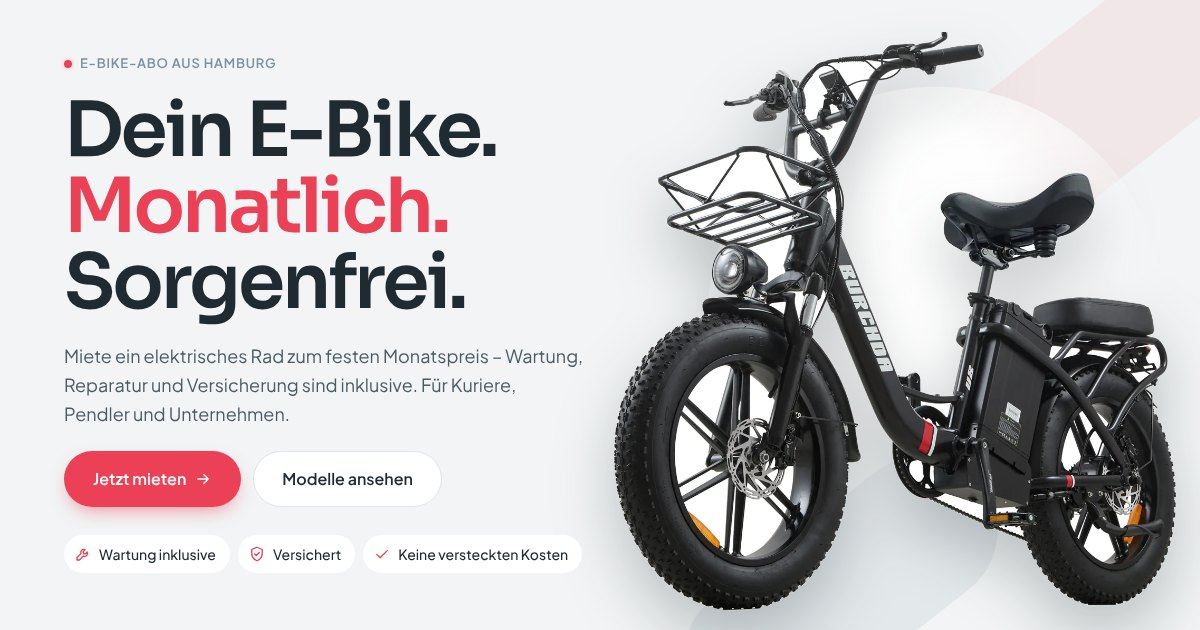
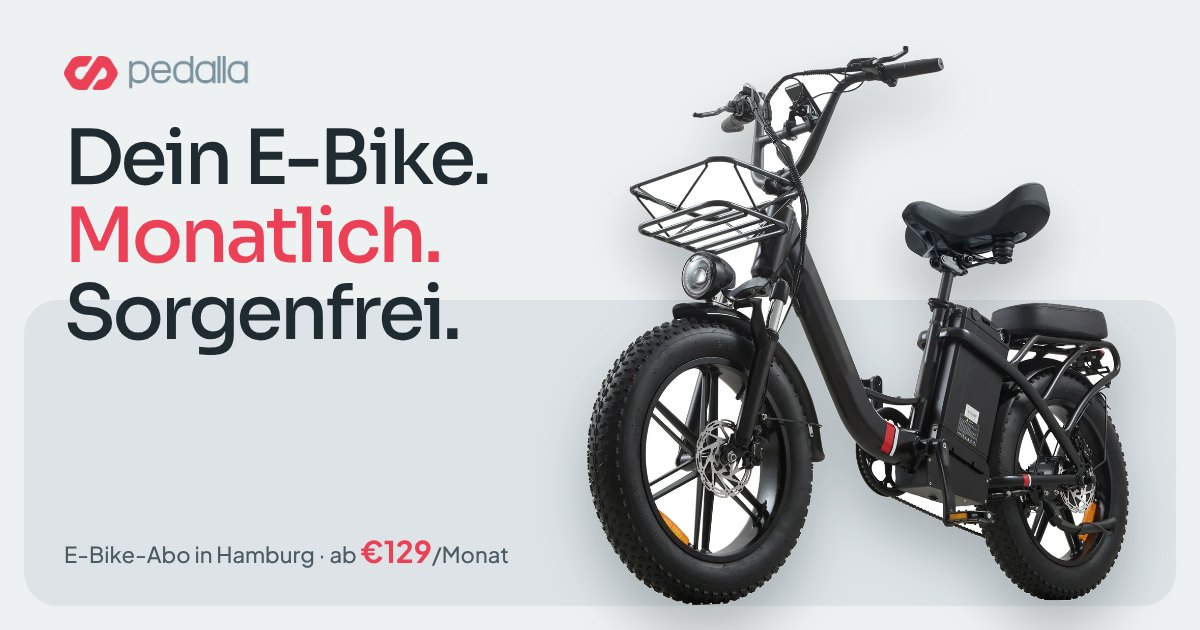
Website: brand-free hero e-bike, new header and hero layout (stage with notch, model switcher)
Claude-Session: https://claude.ai/code/session_01J2WuVimoZDpszxyMXGVvKV

diff --git a/website/src/site.css b/website/src/site.css
@@ -53,73 +53,134 @@ p { margin: 0; }
 .btn[disabled] { opacity: .6; pointer-events: none; }
 .btn .ic { width: 18px; height: 18px; }
 
-/* header */
-.top { position: sticky; top: 0; z-index: 50; background: rgba(255,255,255,.86); backdrop-filter: saturate(1.4) blur(14px); -webkit-backdrop-filter: saturate(1.4) blur(14px); border-bottom: 1px solid transparent; transition: border-color .2s; }
-.top.scrolled { border-bottom-color: var(--line); }
-.top-in { display: flex; align-items: center; gap: 24px; height: 72px; }
-.logo img { height: 28px; width: auto; }
-.nav { display: flex; gap: 4px; margin: 0 auto; }
-.nav a { padding: 8px 14px; border-radius: 999px; text-decoration: none; font-weight: 500; font-size: 15px; color: var(--ink-2); }
-.nav a:hover { background: var(--soft); color: var(--ink); }
-.nav-login { display: none; }
-.top-r { display: flex; align-items: center; gap: 10px; }
-.lang { display: flex; background: var(--soft); border-radius: 999px; padding: 3px; }
-.lang a { font: 600 12px/1 var(--body); padding: 8px 9px; border-radius: 999px; text-decoration: none; color: var(--ink-2); }
-.lang a.on { background: #fff; color: var(--ink); box-shadow: 0 1px 3px rgba(0,0,0,.08); }
-.burger { display: none; width: 42px; height: 42px; border-radius: 50%; border: 0; background: var(--soft); cursor: pointer; align-items: center; justify-content: center; color: var(--ink); }
-@media (max-width: 1080px) {
-  .nav { position: fixed; inset: 72px 0 auto 0; flex-direction: column; background: #fff; padding: 12px 16px 20px; border-bottom: 1px solid var(--line); box-shadow: var(--shadow); transform: translateY(-8px); opacity: 0; pointer-events: none; transition: .2s; margin: 0; }
-  .nav.open { transform: none; opacity: 1; pointer-events: auto; }
-  .nav a { font-size: 17px; padding: 12px 14px; }
-  .nav-login { display: block; }
-  .burger { display: inline-flex; }
-  .hide-m { display: none; }
-  .top-r { margin-left: auto; }
+/* header (floats over the hero frame) */
+.top { position: sticky; top: 0; z-index: 50; transition: background .25s, box-shadow .25s; }
+.top.scrolled { background: rgba(255,255,255,.88); backdrop-filter: saturate(1.4) blur(14px); -webkit-backdrop-filter: saturate(1.4) blur(14px); box-shadow: 0 1px 0 var(--line); }
+.top-in { display: grid; grid-template-columns: 1fr auto 1fr; align-items: center; gap: 16px; height: 84px; padding-left: 36px; padding-right: 36px; }
+.top-l { display: flex; align-items: center; gap: 28px; min-width: 0; }
+.logo { justify-self: center; display: flex; align-items: center; }
+.logo img { height: 30px; width: auto; }
+.round { width: 44px; height: 44px; border-radius: 50%; border: 0; display: inline-grid; place-items: center; cursor: pointer; flex: none; text-decoration: none; transition: transform .15s, background .2s; }
+.round:active { transform: scale(.95); }
+.round.dark { background: var(--ink); color: #fff; }
+.round.dark:hover { background: var(--red); }
+.round.light { background: #fff; color: var(--ink); }
+.round.light:hover { color: var(--red); }
+.round .ic { width: 19px; height: 19px; }
+.nav { display: flex; gap: 2px; }
+.nav a { padding: 8px 12px; border-radius: 999px; text-decoration: none; font-weight: 500; font-size: 14.5px; color: var(--ink); }
+.nav a:hover { background: rgba(255,255,255,.8); }
+.nav .nav-x { display: none; }
+.top-r { display: flex; align-items: center; justify-content: flex-end; gap: 10px; }
+.lang { display: flex; background: rgba(255,255,255,.7); border-radius: 999px; padding: 3px; }
+.lang a { font: 600 11.5px/1 var(--body); padding: 8px 9px; border-radius: 999px; text-decoration: none; color: var(--ink-2); }
+.lang a.on { background: var(--ink); color: #fff; }
+.contact { display: flex; align-items: center; gap: 4px; }
+.pillbtn { background: #fff; border-radius: 999px; height: 44px; padding: 0 18px; display: inline-flex; align-items: center; font-weight: 600; font-size: 14px; text-decoration: none; }
+.pillbtn:hover { color: var(--red); }
+.rentbtn { display: inline-flex; align-items: center; gap: 12px; height: 54px; padding: 0 6px 0 22px; border-radius: 999px; border: 0; background: #fff; font: 700 14.5px/1 var(--body); color: var(--ink); cursor: pointer; box-shadow: 0 6px 18px -10px rgba(31,42,49,.35); transition: transform .15s; }
+.rentbtn:hover { transform: translateY(-1px); }
+.rentbtn i { width: 42px; height: 42px; border-radius: 50%; background: var(--red); color: #fff; display: grid; place-items: center; }
+.rentbtn .ic { width: 20px; height: 20px; }
+/* opened menu (all sizes): panel under the header */
+.nav.open { position: fixed; top: 84px; left: max(16px, calc((100vw - 1240px) / 2 + 28px)); right: 16px; max-width: 420px; flex-direction: column; background: #fff; border-radius: 24px; padding: 14px; box-shadow: var(--shadow); gap: 2px; z-index: 60; }
+.nav.open a, .nav.open .nav-x { display: block; font-size: 17px; padding: 12px 14px; }
+.nav.open a:hover { background: var(--soft); }
+.nav.open .nav-lang { display: flex; gap: 6px; padding: 10px 6px 4px; border-top: 1px solid var(--line); margin-top: 6px; }
+.nav.open .nav-lang a { font-size: 14px; padding: 8px 12px; border-radius: 999px; background: var(--soft); }
+.nav.open .nav-lang a.on { background: var(--ink); color: #fff; }
+@media (max-width: 1200px) { .contact { display: none; } }
+@media (max-width: 1080px) { .nav:not(.open) { display: none; } .top-in { padding-left: 16px; padding-right: 16px; } }
+@media (max-width: 640px) {
+  .top-in { height: 72px; gap: 8px; }
+  .lang { display: none; }
+  .logo img { height: 24px; }
+  .rentbtn { height: 46px; padding: 0 4px 0 14px; gap: 8px; font-size: 13px; }
+  .rentbtn i { width: 38px; height: 38px; }
+  .nav.open { top: 72px; }
 }
-@media (max-width: 520px) { .top-r .btn.red { display: none; } .logo img { height: 24px; } }
+@media (max-width: 400px) { .rentbtn span { display: none; } .rentbtn { padding: 0 4px; } }
 
-/* hero */
+/* hero – light frame with a darker stage, a raised tab on the right and a cut-out bottom-left */
 .eyebrow { display: inline-flex; align-items: center; gap: 8px; font: 600 13px/1 var(--body); letter-spacing: .06em; text-transform: uppercase; color: var(--slate); }
 .eyebrow .dot { width: 8px; height: 8px; border-radius: 50%; background: var(--red); box-shadow: 0 0 0 4px var(--red-l); }
-.hero { padding-top: 12px; }
-.hero-box { position: relative; background: var(--soft); border-radius: var(--r-xl); display: grid; grid-template-columns: 1.05fr 1fr; min-height: 640px; overflow: hidden; isolation: isolate; }
-.hero-copy { padding: 64px 0 56px 56px; display: flex; flex-direction: column; justify-content: center; gap: 22px; z-index: 2; }
-.hero h1 { font-size: clamp(42px, 6.2vw, 84px); font-weight: 600; letter-spacing: -0.04em; line-height: 1.0; }
 .lead { font-size: 18px; color: var(--ink-2); max-width: 520px; }
-.hero-cta { display: flex; gap: 12px; flex-wrap: wrap; }
-.chips { display: flex; flex-wrap: wrap; gap: 8px; list-style: none; padding: 0; margin: 6px 0 0; }
-.chips li { display: inline-flex; align-items: center; gap: 7px; background: #fff; border-radius: 999px; padding: 8px 14px 8px 10px; font-size: 14px; font-weight: 500; }
-.chips .ic { width: 18px; height: 18px; color: var(--red); }
-.hero-visual { position: relative; min-height: 420px; }
-.hero-disc { position: absolute; width: 78%; aspect-ratio: 1; right: 6%; top: 50%; transform: translateY(-50%); border-radius: 50%; background: radial-gradient(circle at 35% 30%, #fff 0, #fff 30%, rgba(255,255,255,0) 70%); }
-.hero-bike { position: absolute; height: 92%; width: auto; max-width: none; right: 4%; bottom: 3%; filter: drop-shadow(0 30px 30px rgba(31,42,49,.25)); z-index: 1; }
-.hero-motif { position: absolute; inset: 0; z-index: -1; pointer-events: none; }
-.hero-motif i { position: absolute; width: 360px; height: 150px; border-radius: 999px; background: var(--red); opacity: .07; transform: rotate(-38deg); }
-.hero-motif i:first-child { right: -60px; top: 40px; }
-.hero-motif i:last-child { right: 180px; bottom: -40px; background: var(--slate); opacity: .12; }
-.float { position: absolute; z-index: 3; background: rgba(255,255,255,.88); backdrop-filter: blur(10px); -webkit-backdrop-filter: blur(10px); border-radius: var(--r); box-shadow: var(--shadow); display: flex; align-items: center; gap: 12px; border: 0; font: inherit; color: inherit; text-align: left; }
-.f1 { top: 36px; right: 32px; padding: 12px 16px; }
-.f1 .n { font: 600 30px/1 var(--head); color: var(--green); }
-.f1 span { font-size: 14px; font-weight: 600; line-height: 1.25; }
-.f1 small { display: block; font-weight: 400; color: var(--ink-2); font-size: 12px; }
-.f2 { left: 0; bottom: 32px; padding: 10px; cursor: pointer; transition: transform .2s; }
-.f2:hover { transform: translateY(-3px); }
-.f2-img { width: 64px; height: 64px; border-radius: 14px; background: var(--soft); display: grid; place-items: center; overflow: hidden; }
-.f2-img img { width: 56px; height: 56px; object-fit: contain; }
-.f2 b { display: block; font-family: var(--head); font-size: 15px; }
-.f2 small { display: block; font-size: 12px; color: var(--ink-2); }
-.f2 em { font-style: normal; font-size: 13px; color: var(--ink-2); }
-.f2 em b { display: inline; color: var(--red); font-size: 14px; }
-.f2-go { width: 40px; height: 40px; border-radius: 50%; background: var(--red); color: #fff; display: grid; place-items: center; margin-left: 4px; }
-@media (max-width: 960px) {
-  .hero-box { grid-template-columns: 1fr; min-height: 0; border-radius: 28px; }
-  .hero-copy { padding: 40px 24px 8px; }
-  .hero-visual { min-height: 0; aspect-ratio: 1 / .95; }
-  .hero-bike { height: 90%; right: 50%; transform: translateX(50%); }
-  .f2 { left: 16px; bottom: 16px; }
-  .f1 { top: 12px; right: 16px; }
+.hero { margin-top: -84px; padding-top: 12px; }
+.hero-box { --frame: #eef1f2; --stage: #dde3e6; --pad: 20px; --top: 330px; --tab: 270px; --nw: 360px; --nh: 250px; --r: 34px;
+  position: relative; background: var(--frame); border-radius: var(--r-xl); height: clamp(760px, 100svh - 24px, 900px); overflow: hidden; isolation: isolate; padding-top: 84px; }
+.stage i { position: absolute; display: block; }
+.st-main { left: var(--pad); right: var(--pad); top: var(--top); bottom: var(--pad); background: var(--stage); border-radius: var(--r); }
+.st-tab { right: var(--pad); width: 30%; top: var(--tab); height: calc(var(--top) - var(--tab) + var(--r)); background: var(--stage); border-radius: var(--r) var(--r) 0 0; }
+.st-join { right: calc(var(--pad) + 30%); top: calc(var(--top) - var(--r)); width: var(--r); height: var(--r); background: radial-gradient(circle at 0 0, transparent calc(var(--r) - .5px), var(--stage) var(--r)); }
+.st-notch { left: var(--pad); bottom: var(--pad); width: var(--nw); height: var(--nh); background: var(--frame); border-top-right-radius: var(--r); }
+.st-c1 { left: var(--pad); bottom: calc(var(--pad) + var(--nh)); width: var(--r); height: var(--r); background: radial-gradient(circle at 100% 0, var(--stage) calc(var(--r) - .5px), var(--frame) var(--r)); }
+.st-c2 { left: calc(var(--pad) + var(--nw)); bottom: var(--pad); width: var(--r); height: var(--r); background: radial-gradient(circle at 100% 0, var(--stage) calc(var(--r) - .5px), var(--frame) var(--r)); }
+.hero-h { position: absolute; left: 56px; top: 118px; z-index: 3; font-size: clamp(44px, 4.9vw, 74px); font-weight: 500; letter-spacing: -0.045em; line-height: 1.02; }
+.badges { display: inline-flex; gap: 0; vertical-align: middle; margin-left: 14px; transform: translateY(-6px); }
+.badges i { width: 64px; height: 64px; border-radius: 50%; display: grid; place-items: center; border: 4px solid var(--frame); }
+.bd-img { background: #fff; }
+.bd-img img { width: 36px; }
+.bd-bolt { background: var(--ink); color: #ffd23f; margin-left: -14px; }
+.bd-bolt .ic { width: 28px; height: 28px; fill: #ffd23f; stroke: #ffd23f; }
+.hero-live { position: absolute; right: 56px; top: 132px; z-index: 3; display: flex; flex-direction: column; gap: 10px; max-width: 250px; }
+.stack { display: flex; }
+.stack i { width: 46px; height: 46px; border-radius: 50%; background: #fff; border: 3px solid var(--frame); margin-right: -12px; display: grid; place-items: center; overflow: hidden; font-style: normal; }
+.stack img { width: 36px; height: 36px; object-fit: contain; }
+.stack .plus { background: #fff; font-weight: 600; color: var(--ink-2); }
+.hero-live p { font-size: 13.5px; line-height: 1.4; }
+.hero-live b { display: block; font-weight: 600; }
+.hero-live b .g { color: var(--green); }
+.lv2 { color: var(--ink-2); display: flex; align-items: center; gap: 6px; }
+.lv2::after { content: '★★★★★'; color: #f5b301; letter-spacing: 1px; font-size: 11px; display: none; }
+.hero-bike { position: absolute; z-index: 2; left: 57%; bottom: calc(var(--pad) + 8px); height: min(calc(100% - 290px), 600px); width: 46%; max-width: none; object-fit: contain; object-position: 50% 100%; transform: translateX(-50%); filter: drop-shadow(0 34px 30px rgba(31,42,49,.28)); transition: opacity .35s, transform .5s cubic-bezier(.2,.8,.2,1); }
+.hero-bike.swap { opacity: 0; transform: translateX(-44%) scale(.97); }
+.spot { position: absolute; z-index: 3; left: calc(var(--pad) + 36px); bottom: calc(var(--pad) + 30px); width: calc(var(--nw) - 72px); display: flex; flex-direction: column; gap: 4px; }
+.spot-name { font-size: clamp(30px, 2.8vw, 40px); font-weight: 500; letter-spacing: -0.035em; }
+.spot-sub { color: var(--slate); font-size: 14px; margin-bottom: 12px; }
+.spot-desc { font-size: 14px; color: var(--ink); line-height: 1.55; }
+.spot-price { font-size: 14px; color: var(--ink-2); margin-top: 8px; }
+.spot-price b { color: var(--red); font-size: 16px; }
+.spot-price a { color: var(--ink); font-weight: 600; text-underline-offset: 3px; }
+.hero-go { position: absolute; z-index: 4; left: calc(var(--pad) + var(--nw) + 28px); bottom: calc(var(--pad) + 26px); width: 74px; height: 74px; border-radius: 50%; border: 0; background: var(--red); color: #fff; display: grid; place-items: center; cursor: pointer; box-shadow: 0 14px 30px -10px rgba(235,64,86,.8); transition: transform .2s, background .2s; }
+.hero-go .ic { width: 28px; height: 28px; transform: rotate(-45deg); transition: transform .2s; }
+.hero-go:hover { background: var(--red-d); transform: scale(1.05); }
+.hero-go:hover .ic { transform: rotate(0); }
+.hero-models { position: absolute; z-index: 3; right: calc(var(--pad) + 22px); bottom: calc(var(--pad) + 22px); display: flex; flex-direction: column; gap: 10px; width: 210px; }
+.hero-cta-m { display: none; }
+.hero-models::before, .hero-models::after { content: ''; height: 54px; border-radius: 22px; background: rgba(255,255,255,.35); }
+.hm { display: flex; align-items: center; gap: 12px; padding: 10px; border: 0; border-radius: 22px; background: rgba(255,255,255,.72); backdrop-filter: blur(8px); -webkit-backdrop-filter: blur(8px); font: inherit; color: inherit; text-align: left; cursor: pointer; transition: background .2s, transform .2s, box-shadow .2s; }
+.hm:hover { background: rgba(255,255,255,.85); }
+.hm.on { background: #fff; box-shadow: var(--shadow); }
+.hm-img { width: 58px; height: 58px; border-radius: 16px; background: var(--soft); display: grid; place-items: center; flex: none; overflow: hidden; }
+.hm-img img { width: 50px; height: 50px; object-fit: contain; }
+.hm b { display: block; font: 600 14px/1.2 var(--head); }
+.hm small { color: var(--ink-2); font-size: 12.5px; }
+@media (max-width: 1200px) { .hero-box { --nw: 320px; } .hero-h { left: 44px; } .hero-live { right: 44px; } }
+@media (max-width: 1080px) {
+  .hero-box { --top: 360px; --tab: 300px; }
+  .hero-live { display: none; }
+  .hero-models { width: 190px; }
+  .hero-models::before, .hero-models::after { display: none; }
 }
-@media (max-width: 520px) { .hero h1 { font-size: 40px; } .lead { font-size: 16px; } .hero-cta .btn { flex: 1; } .f2 small { display: none; } }
+@media (max-width: 860px) {
+  .hero { margin-top: -84px; }
+  .hero-box { height: auto; display: flex; flex-direction: column; padding: 96px 16px 16px; border-radius: 28px; gap: 18px; }
+  .stage { display: none; }
+  .hero-h, .hero-live, .hero-bike, .spot, .hero-go, .hero-models { position: static; transform: none; }
+  .hero-h { font-size: clamp(40px, 11vw, 60px); padding: 8px 8px 0; }
+  .badges i { width: 48px; height: 48px; border-width: 3px; } .bd-img img { width: 28px; } .bd-bolt .ic { width: 22px; height: 22px; }
+  .hero-bike { order: 2; align-self: center; height: auto; width: 100%; max-width: 460px; background: var(--stage); border-radius: 26px; padding: 18px 10% 8px; filter: drop-shadow(0 20px 18px rgba(31,42,49,.18)); }
+  .hero-bike.swap { transform: scale(.97); }
+  .spot { order: 3; width: auto; padding: 4px 8px 0; }
+  .spot-name { font-size: 32px; }
+  .hero-go { order: 5; position: absolute; right: 30px; top: calc(96px + 0px); display: none; }
+  .badges { display: none; }
+  .hero-cta-m { display: inline-flex; order: 4; width: 100%; }
+  .hero-models { order: 5; flex-direction: row; width: auto; overflow-x: auto; scrollbar-width: none; }
+  .hm { flex: 1 0 200px; background: #fff; }
+  .hm.on { box-shadow: 0 0 0 2px var(--red); }
+}
+@media (max-width: 860px) { .hero-box::after { content: none; } }
 
 /* sections */
 .sec { padding: 104px 16px 0; }

diff --git a/website/src/site.js b/website/src/site.js
@@ -21,7 +21,7 @@
       let m = marketing(x.name); if (m && used.has(m.id)) m = null; if (m) used.add(m.id);
       return {
         id: m?.id || 'type-' + x.name.toLowerCase().replace(/[^a-z0-9]+/g, '-'), type: x.name, name: m?.name || x.name, tag: m?.tag || '',
-        desc: m?.desc || P.generic.desc, specs: m?.specs || [], image: x.image || m?.image || P.generic.image,
+        sub: m?.sub || P.generic.sub, desc: m?.desc || P.generic.desc, specs: m?.specs || [], image: x.image || m?.image || P.generic.image,
         price: x.price, deposit: x.deposit, period: x.period || 'ay', available: x.available,
       };
     }).sort((a, b) => (b.available > 0) - (a.available > 0) || a.price - b.price);
@@ -39,6 +39,34 @@
     $('#bikes').innerHTML = models.map(cardHtml).join('');
     const hero = models.find((m) => m.id === 'fat') || models[0];
     $$('[data-from]').forEach((el) => { const m = byId(el.dataset.from) || hero; if (m) el.textContent = money(m.price); });
+    renderHeroModels();
+  }
+
+  // ---------- hero: model switcher ----------
+  let heroId = 'fat';
+  function renderHeroModels() {
+    const box = $('#heroModels'); if (!box) return;
+    if (!byId(heroId)) heroId = (models.find((m) => m.id === 'fat') || models[0])?.id;
+    box.innerHTML = models.slice(0, 3).map((m) => `<button class="hm ${m.id === heroId ? 'on' : ''}" data-hero="${esc(m.id)}" role="tab" aria-selected="${m.id === heroId}"><span class="hm-img"><img src="${esc(img(m.image))}" alt=""></span><span><b>${esc(m.name)}</b><small>${money(m.price)}${per(m.period)}</small></span></button>`).join('');
+    const st = $('#heroFree .stack'); if (st) st.innerHTML = models.slice(0, 3).map((m) => `<i><img src="${esc(img(m.image))}" alt=""></i>`).join('') + '<i class="plus">+</i>';
+    showHero(heroId, true);
+  }
+  function showHero(id, instant) {
+    const m = byId(id); if (!m) return; heroId = id;
+    $$('#heroModels .hm').forEach((b) => { const on = b.dataset.hero === id; b.classList.toggle('on', on); b.setAttribute('aria-selected', on); });
+    const bike = $('#heroBike'); const spot = $('#spot');
+    const apply = () => {
+      if (bike.getAttribute('src') !== img(m.image)) bike.src = img(m.image);
+      bike.alt = m.name;
+      $('.spot-name', spot).textContent = m.name;
+      $('.spot-sub', spot).textContent = m.sub || P.generic.sub;
+      $('.spot-desc', spot).textContent = m.desc;
+      const pr = $('.spot-price', spot); const pb = $('b', pr); pb.textContent = money(m.price); pb.dataset.from = m.id; $('a', pr).dataset.details = m.id;
+      $('.hero-go').dataset.rent = m.id;
+      bike.classList.remove('swap');
+    };
+    if (instant) return apply();
+    bike.classList.add('swap'); setTimeout(apply, 220);
   }
 
   async function api(path, opt = {}) {
@@ -90,7 +118,7 @@
       if (live.length) { models = live; renderCards(); $('#liveNote').hidden = false; }
       const free = (catalog.fleet || []).length; const freeAll = catalog.types.reduce((s, x) => s + (x.available || 0), 0);
       $('#freeCount').textContent = freeAll;
-      if (freeAll > 0) { const f = $('#heroFree'); f.hidden = false; $('.n', f).textContent = freeAll; }
+      if (freeAll > 0) { const f = $('#heroFree'); $('.lv1', f).innerHTML = `<span class="g">${freeAll}</span> ${esc(T.hero_free)}`; $('.lv2', f).textContent = T.hero_free_sub; }
       drawFleet();
     } catch (e) {
       $('#mapOff').hidden = false; $('#freeCount').textContent = '–';
@@ -224,7 +252,9 @@
   document.addEventListener('click', (e) => {
     const r = e.target.closest('[data-rent]'); if (r) { e.preventDefault(); return rent(r.dataset.rent); }
     const d = e.target.closest('[data-details]'); if (d) { const m = byId(d.dataset.details); if (m) details(m); return; }
+    const h = e.target.closest('[data-hero]'); if (h) return showHero(h.dataset.hero);
     const a = e.target.closest('.nav a'); if (a) toggleNav(false);
+    if (nav.classList.contains('open') && !e.target.closest('#nav, #burger')) toggleNav(false);
   });
 
   // header: shadow on scroll + mobile menu
